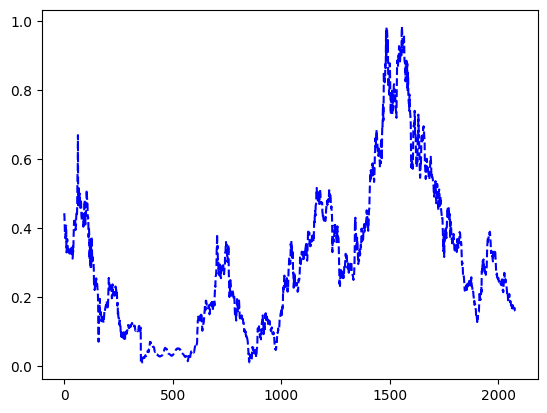
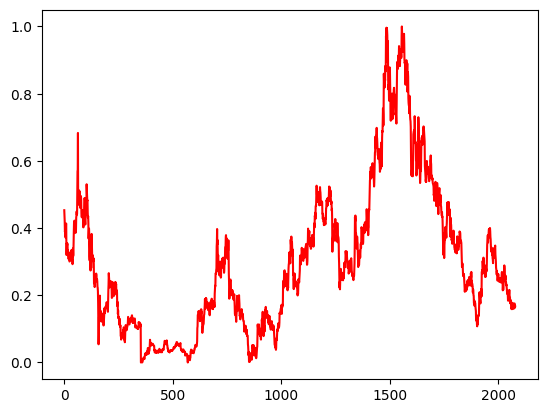
fix：调整一些图片和内容

diff --git a/docs/ch06_量化调仓策略/ch06_量化调仓策略.md b/docs/ch06_量化调仓策略/ch06_量化调仓策略.md
@@ -10,9 +10,9 @@
 
 6.4 Python实现最佳仓位控制
 
-6.5 投资组合的有效前沿与资本市场线
+6.5 投资组合的有效前沿与资本市场线（选修）
 
-6.6 CAPM资本资产定价模型
+6.6 CAPM资本资产定价模型（选修）
 
 ## 6.1 如何衡量投资组合的收益率
 
@@ -154,7 +154,7 @@ $$
 \operatorname{Max} \quad \omega^{\mathrm{T}} \mu-\frac{\lambda}{2} \omega^{\prime} \Sigma \omega
 $$
 理论上来讲，组合成分间存在无数个混搭方式，每种方式得到一个收益风险对，将所有结果集合在一起，就形成了可行域，如图所示。可行域中并不是所有点都是“好结果”，只有处于可行域上侧边缘的点才是最优值，即MVO的解，如图中A到D之间连线，这条线称为有效前沿。任何异于有效前沿的点，均能找到相同风险（收益）下收益（风险）更高（低）的组合。
-![efficient%20frontier.png](attachment:efficient%20frontier.png)
+![](ch06_6.3_01.png)
 图片来源：CQR
 其中，图上的A点即前文讨论过的最小方差组合，位于有效前沿的最左端；而如果我们自无风险收益率起做一条射线，与有效前沿相切于B点，改点即为所有可行域中夏普比率最大的点，因此也被称为最大夏普组合。故也有另外一种常见的，最大化组合夏普比率，其目标函数为。
 $$
@@ -300,7 +300,7 @@ df_record = df_record.set_index('日期')
 [【实战】寻找最优投资组合：马科维兹 | 风险平价 | 最大夏普](https://www.wolai.com/stupidccl/vUp4zkiqPf2axRJvLAFfaa)
 
 
-## 6.5 投资组合的有效前沿与资本市场线
+## 6.5 投资组合的有效前沿与资本市场线（选修）
 ### 6.5.1 效用函数（Utility Function）
 
 效用函数是用来衡量投资者对不同投资组合所获得的满足程度，公式如下，
@@ -450,7 +450,7 @@ $R_M$ 、 $\sigma_M$ 分别为market portfolio的收益和标准差。 $E\left(R
 - https://www.cnblogs.com/frankcui/p/16214923.html
 
 
-## 6.6 CAPM资本资产定价模型
+## 6.6 CAPM资本资产定价模型（选修）
 ### 6.6.1 一种最简单的量化模型：现代资产组合理论（MPT）
 
 下面进入这一讲的重点，我们将要介绍一些最简单的量化模型。

diff --git a/docs/ch08_机器学习与量化策略/8.1_小波分析去噪与股价预测.md b/docs/ch08_机器学习与量化策略/8.1_小波分析去噪与股价预测.md
@@ -16,7 +16,7 @@
 
 算法的实质是对原始信号的滤波分析过程。通过将信号映射到由小波函数构成的一类正交子空间，使得信号可以在不同尺度空间进行展开。从频谱分析的角度看，小波变换是将信号分解为低频和高频分量两部分，高频字段又被称为细节子带（detailed subband），低频分量又被称为近似子带（approximate subband）。具体而言，小波变换首先将原始信号作为输入信号，通过一组正交的小波基分解成高频和低频部分，然后将得到的低频部分作为输入信号（对高频部分也即信号的细节部分不再继续分解），再次进行小波分解，得到下一级的高频部分和低频部分，以此类推。随着小波分解的层级增加，其在频域上的分辨率就越高。
 
-![img](https://img-blog.csdnimg.cn/20181213221347630.png)
+![img](ch08_8.1_01.png)
 
 **Note**: 图源自[Link](https://blog.csdn.net/cqfdcw/article/details/84995904)
 
@@ -417,7 +417,7 @@ plt.plot(data_set_scaled,"r-")
 
 Result:
 
-![png](ch08_8.1_01.png)
+![png](ch08_8.1_02.png)
 
 
 ### 2.2 使用小波分解降噪
@@ -457,7 +457,7 @@ Result:
 (2078,)
 ```
 
-![png](ch08_8.1_02.png)
+![png](ch08_8.1_03.png)
 
   
 
@@ -594,7 +594,7 @@ plt.show()
 
  Result:      
 
-![png](ch08_8.1_03.png)
+![png](ch08_8.1_04.png)
 
 - 计算 MSE 和 MAE
 
@@ -753,7 +753,7 @@ Results:
  ['Test_set' '0.0003' '0.012']]
 ```
 
-![png](ch08_8.1_04.png)
+![png](ch08_8.1_05.png)
 
 
     

diff --git a/docs/ch08_机器学习与量化策略/ch08_机器学习与量化策略.md b/docs/ch08_机器学习与量化策略/ch08_机器学习与量化策略.md
@@ -1,6 +1,6 @@
 # ch08_机器学习与量化策略
 
-- [8.1_小波分析去噪与股价预测](./8.1_小波分析去噪与股价预测.md)
+- [8.1_小波分析去噪与股价预测](./ch08_机器学习与量化策略/8.1_小波分析去噪与股价预测.md)
 
 - [8.2_机器学习分类与量化选股](./8.2_机器学习分类与量化选股.md)
 
